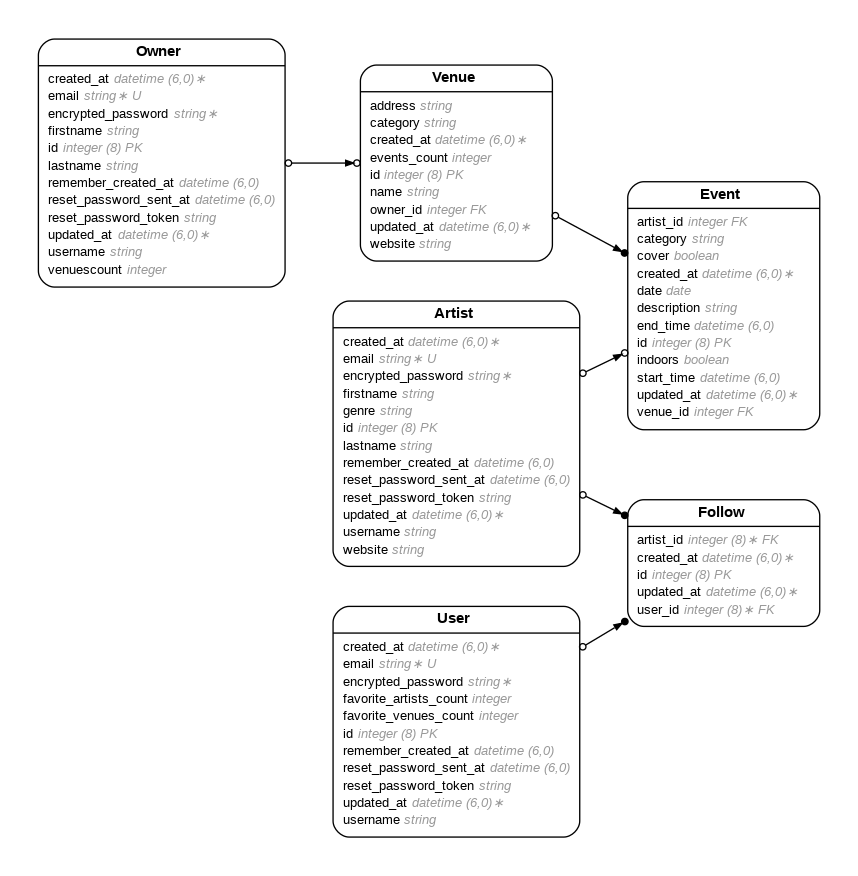
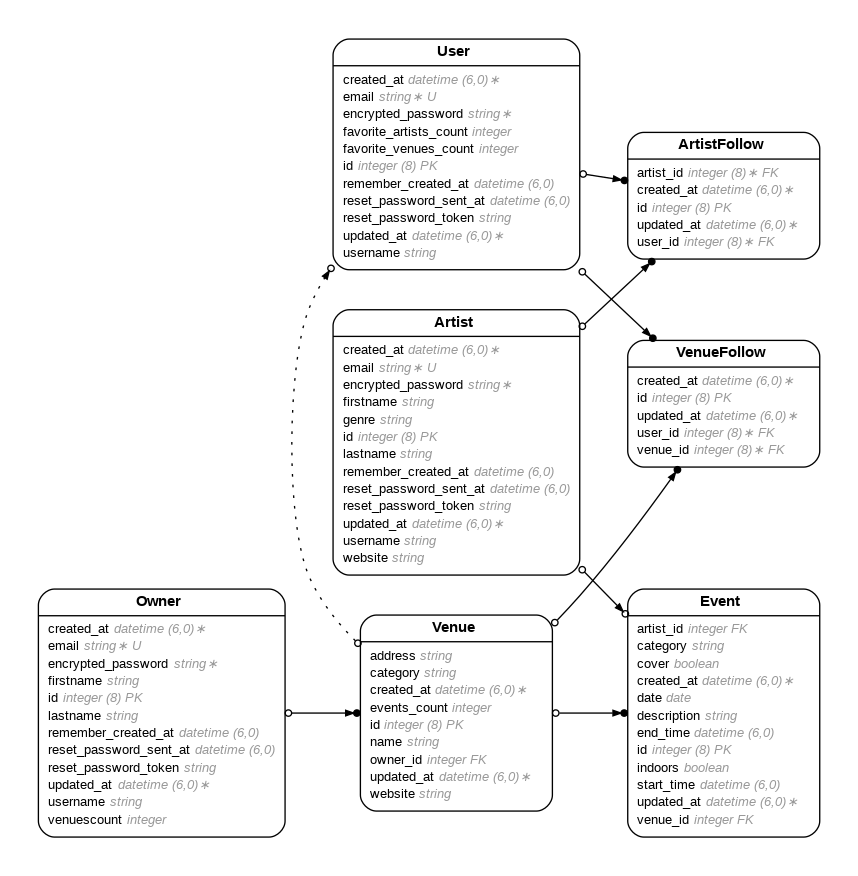
updated follows models

diff --git a/db/schema.rb b/db/schema.rb
@@ -10,9 +10,18 @@
 #
 # It's strongly recommended that you check this file into your version control system.
 
-ActiveRecord::Schema[8.0].define(version: 2025_05_08_003308) do
+ActiveRecord::Schema[8.0].define(version: 2025_05_08_005039) do
   # These are extensions that must be enabled in order to support this database
   enable_extension "pg_catalog.plpgsql"
+
+  create_table "artist_follows", force: :cascade do |t|
+    t.bigint "user_id", null: false
+    t.bigint "artist_id", null: false
+    t.datetime "created_at", null: false
+    t.datetime "updated_at", null: false
+    t.index ["artist_id"], name: "index_artist_follows_on_artist_id"
+    t.index ["user_id"], name: "index_artist_follows_on_user_id"
+  end
 
   create_table "artists", force: :cascade do |t|
     t.string "email", default: "", null: false
@@ -227,6 +236,15 @@ ActiveRecord::Schema[8.0].define(version: 2025_05_08_003308) do
     t.index ["reset_password_token"], name: "index_users_on_reset_password_token", unique: true
   end
 
+  create_table "venue_follows", force: :cascade do |t|
+    t.bigint "user_id", null: false
+    t.bigint "venue_id", null: false
+    t.datetime "created_at", null: false
+    t.datetime "updated_at", null: false
+    t.index ["user_id"], name: "index_venue_follows_on_user_id"
+    t.index ["venue_id"], name: "index_venue_follows_on_venue_id"
+  end
+
   create_table "venues", force: :cascade do |t|
     t.string "address"
     t.string "category"
@@ -238,6 +256,8 @@ ActiveRecord::Schema[8.0].define(version: 2025_05_08_003308) do
     t.datetime "updated_at", null: false
   end
 
+  add_foreign_key "artist_follows", "artists"
+  add_foreign_key "artist_follows", "users"
   add_foreign_key "follows", "artists"
   add_foreign_key "follows", "users"
   add_foreign_key "solid_queue_blocked_executions", "solid_queue_jobs", column: "job_id", on_delete: :cascade
@@ -246,4 +266,6 @@ ActiveRecord::Schema[8.0].define(version: 2025_05_08_003308) do
   add_foreign_key "solid_queue_ready_executions", "solid_queue_jobs", column: "job_id", on_delete: :cascade
   add_foreign_key "solid_queue_recurring_executions", "solid_queue_jobs", column: "job_id", on_delete: :cascade
   add_foreign_key "solid_queue_scheduled_executions", "solid_queue_jobs", column: "job_id", on_delete: :cascade
+  add_foreign_key "venue_follows", "users"
+  add_foreign_key "venue_follows", "venues"
 end

diff --git a/app/models/artist_follow.rb b/app/models/artist_follow.rb
@@ -1,6 +1,6 @@
 # == Schema Information
 #
-# Table name: follows
+# Table name: artist_follows
 #
 #  id         :bigint           not null, primary key
 #  created_at :datetime         not null
@@ -10,16 +10,17 @@
 #
 # Indexes
 #
-#  index_follows_on_artist_id  (artist_id)
-#  index_follows_on_user_id    (user_id)
+#  index_artist_follows_on_artist_id  (artist_id)
+#  index_artist_follows_on_user_id    (user_id)
 #
 # Foreign Keys
 #
 #  fk_rails_...  (artist_id => artists.id)
 #  fk_rails_...  (user_id => users.id)
 #
-class Follow < ApplicationRecord
+class ArtistFollow < ApplicationRecord
   belongs_to :user
   belongs_to :artist
+
   validates :user_id, uniqueness: { scope: :artist_id }
 end

diff --git a/app/models/venue_follow.rb b/app/models/venue_follow.rb
@@ -1,0 +1,25 @@
+# == Schema Information
+#
+# Table name: venue_follows
+#
+#  id         :bigint           not null, primary key
+#  created_at :datetime         not null
+#  updated_at :datetime         not null
+#  user_id    :bigint           not null
+#  venue_id   :bigint           not null
+#
+# Indexes
+#
+#  index_venue_follows_on_user_id   (user_id)
+#  index_venue_follows_on_venue_id  (venue_id)
+#
+# Foreign Keys
+#
+#  fk_rails_...  (user_id => users.id)
+#  fk_rails_...  (venue_id => venues.id)
+#
+class VenueFollow < ApplicationRecord
+  belongs_to :user
+  belongs_to :venue
+  validates :user_id, uniqueness: { scope: :venue_id }
+end

diff --git a/app/models/user.rb b/app/models/user.rb
@@ -24,6 +24,9 @@ class User < ApplicationRecord
   # :confirmable, :lockable, :timeoutable, :trackable and :omniauthable
   devise :database_authenticatable, :registerable,
          :recoverable, :rememberable, :validatable
-  has_many :follows
-  has_many :followed_artists, through: :follows, source: :artist
+  has_many :artist_follows
+  has_many :followed_artists, through: :artist_follows, source: :artist
+  has_many :venue_follows
+  has_many :followed_venues, through: :venue_follows, source: :venue
+
 end

diff --git a/db/migrate/20250508005039_create_artist_follows.rb b/db/migrate/20250508005039_create_artist_follows.rb
@@ -1,6 +1,6 @@
-class CreateFollows < ActiveRecord::Migration[8.0]
+class CreateArtistFollows < ActiveRecord::Migration[8.0]
   def change
-    create_table :follows do |t|
+    create_table :artist_follows do |t|
       t.references :user, null: false, foreign_key: true
       t.references :artist, null: false, foreign_key: true
 

diff --git a/app/models/artist.rb b/app/models/artist.rb
@@ -29,7 +29,7 @@ class Artist < ApplicationRecord
 
   has_many :events, foreign_key: "artist_id"
   has_many :venues, through: :events  
-  has_many :follows
-  has_many :followers, through: :follows, source: :user
+  has_many :artist_follows
+  has_many :followers, through: :artist_follows, source: :user
 
 end

diff --git a/config/routes.rb b/config/routes.rb
@@ -1,8 +1,11 @@
 Rails.application.routes.draw do
   devise_for :artists
   devise_for :owners
-  root to: event#index
   devise_for :users
+
+  root to: "events#index"
+
+
   resources :venues
   resources :events
   # Define your application routes per the DSL in https://guides.rubyonrails.org/routing.html

diff --git a/db/migrate/20250508004715_create_venue_follows.rb b/db/migrate/20250508004715_create_venue_follows.rb
@@ -1,0 +1,10 @@
+class CreateVenueFollows < ActiveRecord::Migration[8.0]
+  def change
+    create_table :venue_follows do |t|
+      t.references :user, null: false, foreign_key: true
+      t.references :venue, null: false, foreign_key: true
+
+      t.timestamps
+    end
+  end
+end

diff --git a/app/models/venue.rb b/app/models/venue.rb
@@ -13,4 +13,9 @@
 #  owner_id     :integer
 #
 class Venue < ApplicationRecord
+  belongs_to :owner
+  has_many :events
+  has_many :venue_follows
+  has_many :followers, through: :venue_follows, source: :user
+
 end
